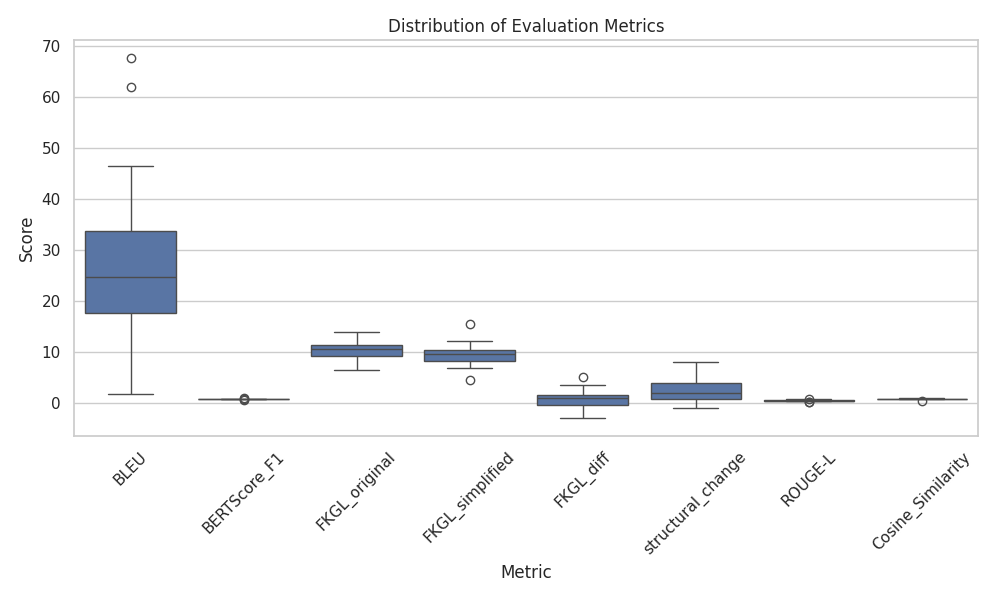
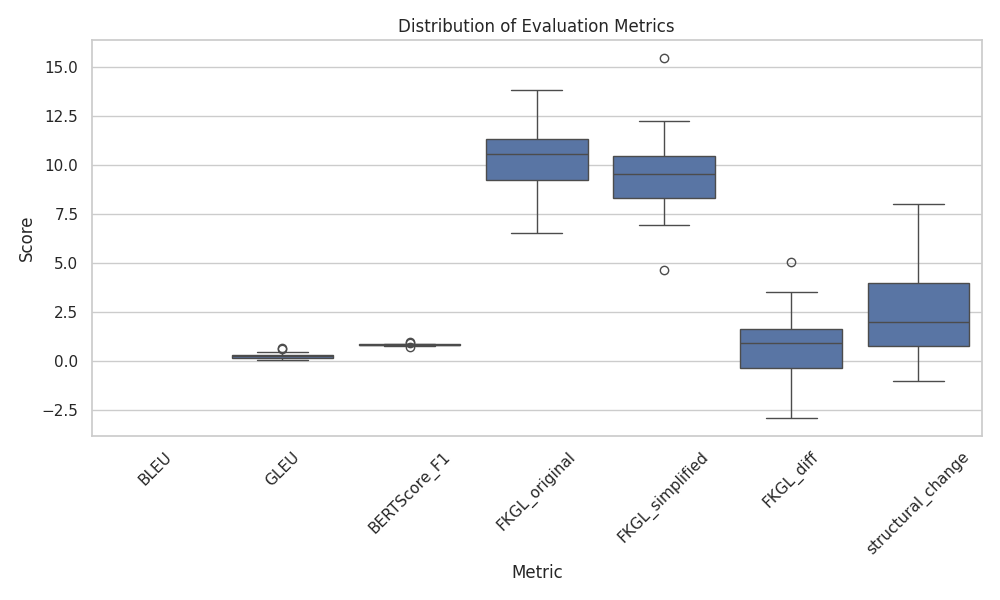
add metrics

diff --git a/main.py b/main.py
@@ -6,9 +6,9 @@ import spacy
 import matplotlib.pyplot as plt
 import seaborn as sns
 from sentence_transformers import SentenceTransformer, util
-from rouge_score import rouge_scorer
 from tqdm import tqdm
 import os
+from nltk.translate.gleu_score import sentence_gleu
 
 DATA_PATH = "dados/textos.csv"
 RESULT_PATH = "dados/textos_resultado.csv"
@@ -18,16 +18,20 @@ df.columns = ["original", "simplified"]
 
 print("Loading models...")
 nlp = spacy.load("pt_core_news_sm")
-rouge = rouge_scorer.RougeScorer(["rougeL"], use_stemmer=True)
 embedder = SentenceTransformer("sentence-transformers/paraphrase-multilingual-MiniLM-L12-v2")
 
 def compute_bleu(orig, simp):
     """Compute BLEU using sacreBLEU."""
-    return sacrebleu.corpus_bleu([simp], [[orig]]).score
+    # return sacrebleu.sentence_bleu(simp, [orig]).score / 100
 
 def compute_bert_score(orig_list, simp_list):
     """Compute BERTScore for all pairs (vectorized)."""
-    P, R, F1 = bertscore(simp_list, orig_list, lang="pt", verbose=True)
+    P, R, F1 = bertscore(
+        simp_list, 
+        orig_list, 
+        lang="pt",
+        verbose=True
+    )
     return F1.tolist()
 
 def compute_fkgl(text):
@@ -38,15 +42,21 @@ def count_sentences(text):
     """Count sentences using spaCy."""
     return len(list(nlp(text).sents))
 
-def compute_rougeL(orig, simp):
-    """Compute ROUGE-L (Longest Common Subsequence)."""
-    return rouge.score(orig, simp)["rougeL"].fmeasure
-
 def compute_cosine_similarity(orig, simp):
     """Compute semantic similarity using Sentence-BERT embeddings."""
     emb1 = embedder.encode(orig, convert_to_tensor=True)
     emb2 = embedder.encode(simp, convert_to_tensor=True)
     return float(util.cos_sim(emb1, emb2).cpu().numpy())
+
+def compute_gleu(orig, simp):
+    """Compute sentence-level GLEU score."""
+    ref_tokens = orig.split()
+    hyp_tokens = simp.split()
+    try:
+        score = sentence_gleu([ref_tokens], hyp_tokens)
+    except ZeroDivisionError:
+        score = 0.0
+    return score
 
 print("Computing metrics...")
 
@@ -55,6 +65,9 @@ df["BLEU"] = [compute_bleu(o, s) for o, s in tqdm(zip(df["original"], df["simpli
 
 # BERTScore
 df["BERTScore_F1"] = compute_bert_score(df["original"].tolist(), df["simplified"].tolist())
+
+# GLEU
+df["GLEU"] = [compute_gleu(o, s) for o, s in tqdm(zip(df["original"], df["simplified"]), total=len(df), desc="GLEU")]
 
 # FKGL
 df["FKGL_original"] = df["original"].apply(compute_fkgl)
@@ -66,14 +79,10 @@ df["num_sent_original"] = df["original"].apply(count_sentences)
 df["num_sent_simplified"] = df["simplified"].apply(count_sentences)
 df["structural_change"] = df["num_sent_simplified"] - df["num_sent_original"]
 
-# ROUGE-L
-df["ROUGE-L"] = [compute_rougeL(o, s) for o, s in tqdm(zip(df["original"], df["simplified"]), total=len(df), desc="ROUGE-L")]
-
-# Cosine similarity
-df["Cosine_Similarity"] = [compute_cosine_similarity(o, s) for o, s in tqdm(zip(df["original"], df["simplified"]), total=len(df), desc="Cosine")]
-
-numeric_cols = ["BLEU", "BERTScore_F1", "FKGL_original", "FKGL_simplified",
-                "FKGL_diff", "structural_change", "ROUGE-L", "Cosine_Similarity"]
+numeric_cols = [
+    "BLEU", "GLEU", "BERTScore_F1", "FKGL_original", "FKGL_simplified",
+    "FKGL_diff", "structural_change"
+]
 
 df[numeric_cols] = df[numeric_cols].applymap(lambda x: round(x, 4) if isinstance(x, (float, int)) else x)
 
@@ -81,27 +90,24 @@ os.makedirs(os.path.dirname(RESULT_PATH), exist_ok=True)
 df.to_csv(RESULT_PATH, index=False)
 print(f"\n✅ Metrics saved to: {RESULT_PATH}")
 
-print("\n=== AVERAGE SCORES ===")
-for metric in numeric_cols:
-    print(f"{metric}: {df[metric].mean():.4f}")
+print("\n=== MÉDIAS E DESVIOS PADRÃO ===")
 
-sns.set(style="whitegrid")
+# DataFrame resumo com média e desvio padrão
+summary = pd.DataFrame({
+    "Média": df[numeric_cols].mean(),
+    "Desvio Padrão": df[numeric_cols].std(),
+    "Mediana": df[numeric_cols].median(),
+    "Mínimo": df[numeric_cols].min(),
+    "Máximo": df[numeric_cols].max()
+}).round(4)
 
-# Boxplot of distributions
-plt.figure(figsize=(10,6))
-df_melt = df[numeric_cols].melt(var_name="Metric", value_name="Score")
-sns.boxplot(x="Metric", y="Score", data=df_melt)
-plt.title("Distribution of Evaluation Metrics")
-plt.xticks(rotation=45)
-plt.tight_layout()
-plt.savefig("dados/metrics_boxplot.png")
-plt.show()
+# Reorganiza colunas (só para exibição mais bonita)
+summary = summary[["Média", "Desvio Padrão", "Mediana", "Mínimo", "Máximo"]]
 
-# Correlation matrix
-plt.figure(figsize=(8,6))
-corr = df[numeric_cols].corr()
-sns.heatmap(corr, annot=True, cmap="coolwarm", fmt=".2f")
-plt.title("Correlation Matrix of Evaluation Metrics")
-plt.tight_layout()
-plt.savefig("dados/metrics_corr.png")
-plt.show()
+print(summary)
+
+# Salva resumo
+os.makedirs("dados", exist_ok=True)
+summary_path = os.path.join("dados", "metricas_resumo.csv")
+summary.to_csv(summary_path, index=True)
+print(f"\n📊 Resumo salvo em: {summary_path}")
